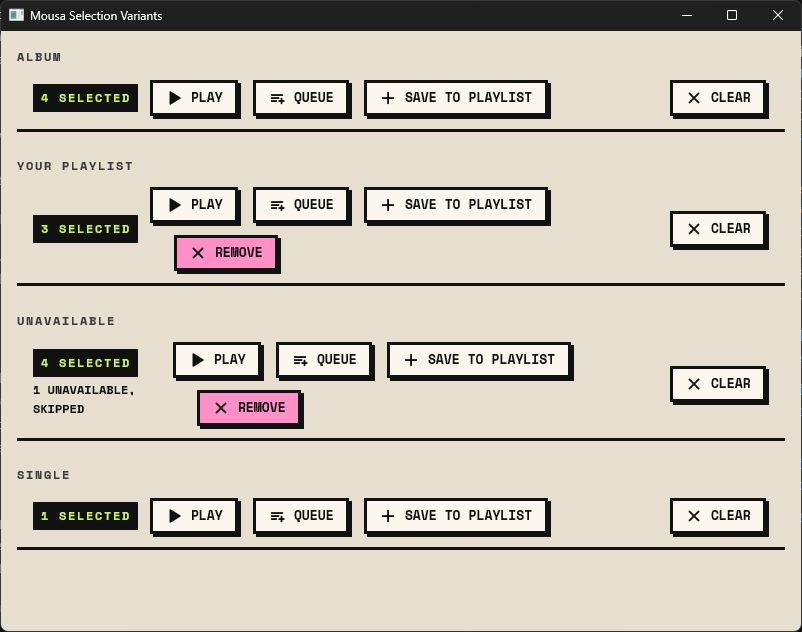
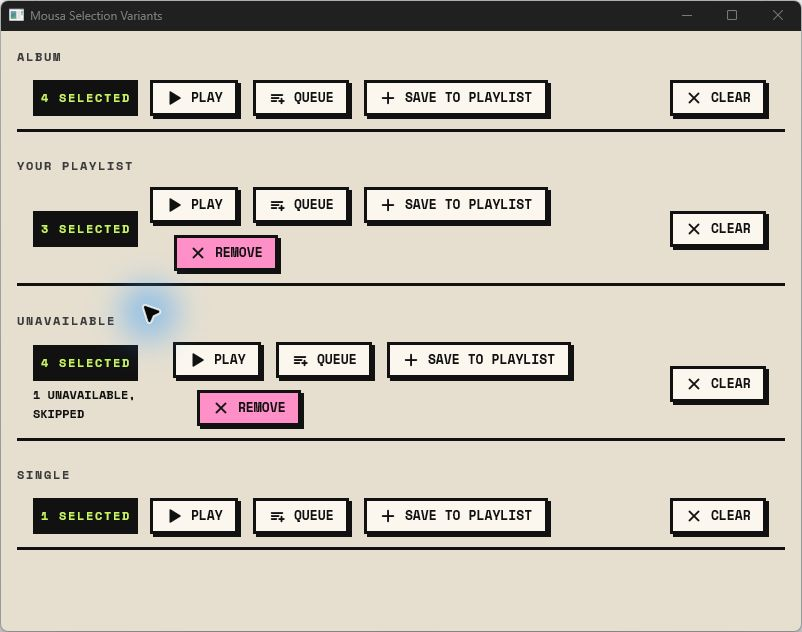
ui(ui): Match selection count height to action buttons

diff --git a/src/ui.rs b/src/ui.rs
@@ -609,8 +609,10 @@ pub fn selection_bar(
                 .gap(space::xs())
                 .child(
                     caps(&format!("{count} SELECTED"))
+                        .h(size::control())
+                        .flex()
+                        .items_center()
                         .px(space::sm())
-                        .py(space::xs())
                         .bg(color::ink())
                         .text_color(color::lime()),
                 )

diff --git a/DESIGN.md b/DESIGN.md
@@ -200,6 +200,8 @@ components:
     height: 90px
   selection-summary:
     width: 128px
+  selection-count:
+    height: 36px
   track-row-selected:
     backgroundColor: "{colors.canvas}"
     textColor: "{colors.primary}"
@@ -603,8 +605,10 @@ scrollbar, and programmatic scrolling. Clear removes the selection and the strip
 Library and queue keep their bounded virtualized lists; their strip stays above
 the scrolling rows. Search uses the same stationary strip above results.
 
-The inverted count tag uses label-caps, ink fill, lime text, and 8px horizontal /
-4px vertical padding. Neutral 36px Play, Queue, and Save to playlist buttons use
+The inverted count tag uses label-caps, ink fill, lime text, and 8px horizontal
+padding. Its height matches the 36px action buttons, with text vertically centered,
+as in the approved mock. It reuses the control-height token.
+Neutral 36px Play, Queue, and Save to playlist buttons use
 13px bold mono text and 18px icons, with 12px gaps. Clear sits at the far right.
 The header retains its lime primary. Owned library playlists add pink Remove,
 separated by 24px; removal asks for confirmation and reports partial failures.
